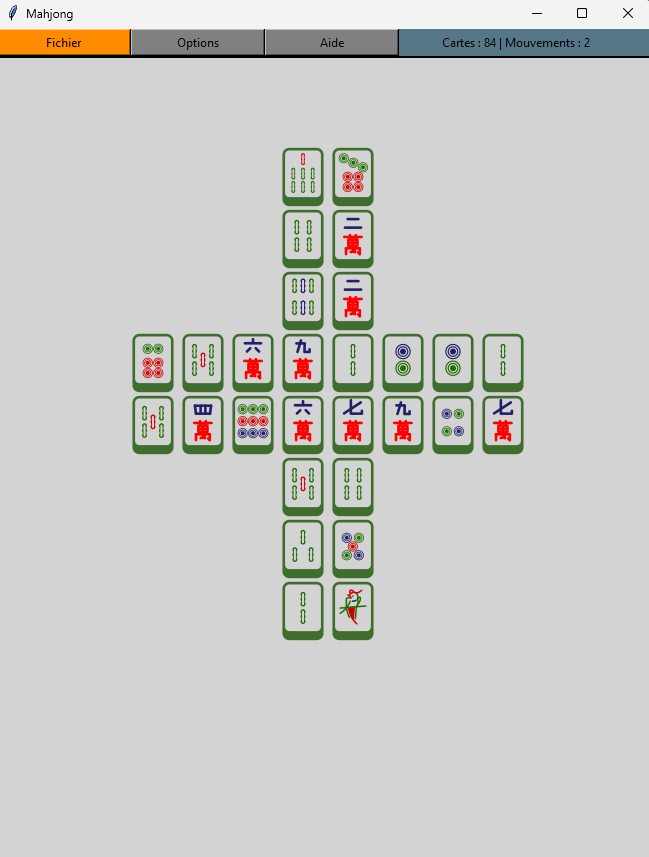
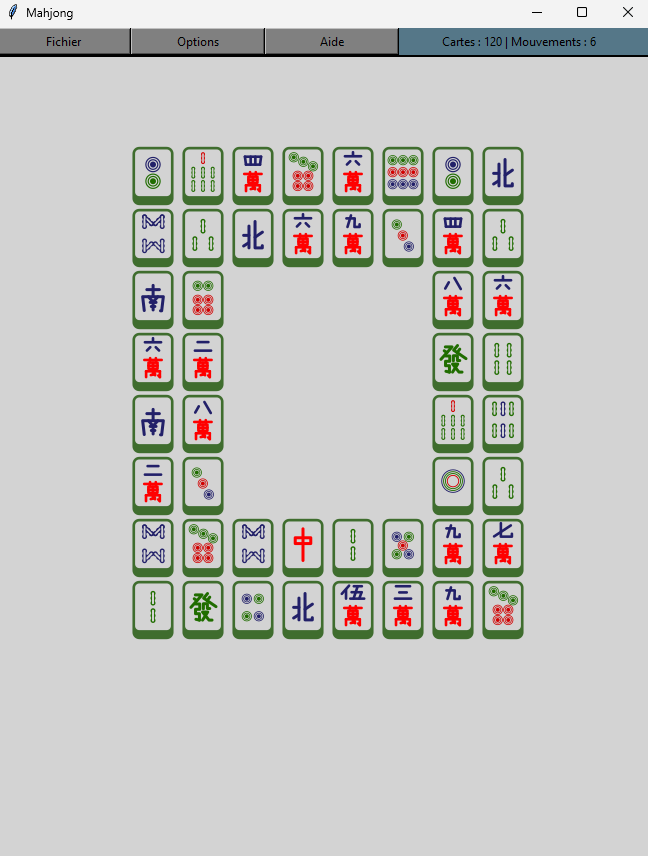
icones supplémentaires

Changed region(s): [[0.1852, 0.1519, 0.8333, 0.7593], [0.0, 0.0, 0.6173, 0.0911], [0.679, 0.0304, 0.9259, 0.0607]]

diff --git a/src/main.py b/src/main.py
@@ -16,6 +16,6 @@ from model import Mahjong
 
 if __name__ == "__main__":
 
-    mahjong = Mahjong(8, 8, 22, ClassicShape())
+    mahjong = Mahjong(8, 8, 33, ClassicShape())
     gui = GUI(mahjong)
     gui.mainloop()
